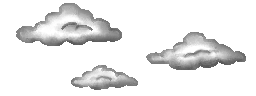
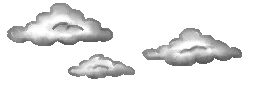
Floor rendering

Changed region(s): [[0.0312, 0.0312, 0.5, 0.5], [0.5312, 0.2812, 0.9688, 0.75], [0.25, 0.5625, 0.5625, 0.9375]]

diff --git a/src/scenes/game/stage.c b/src/scenes/game/stage.c
@@ -35,6 +35,7 @@ Stage create_stage(AssetManager* a) {
     Stage s;
 
     // Get bitmaps
+    s.bmpFloor = (Bitmap*)assets_get(a, "floor");
     s.bmpFence = (Bitmap*)assets_get(a, "fence");
     s.bmpBush = (Bitmap*)assets_get(a, "bush");
     s.bmpHouses = (Bitmap*)assets_get(a, "houses");
@@ -46,6 +47,7 @@ Stage create_stage(AssetManager* a) {
     s.housePos = 0.0f;
     s.fencePos = 0.0f;
     s.cloudPos = 0.0f;
+    s.floorPos = 0.0f;
 
     return s;
 }
@@ -58,6 +60,7 @@ void stage_update(Stage* s, float globalSpeed,  float tm) {
     const float HOUSE_SPEED = BUSH_SPEED / 2.0f;
     const float FENCE_SPEED = 1.0f;
     const float CLOUD_SPEED = 0.33f;
+    const float FLOOR_SPEED = FENCE_SPEED;
 
     //
     // Update positions
@@ -69,18 +72,20 @@ void stage_update(Stage* s, float globalSpeed,  float tm) {
     update_scrolling_element(&s->housePos, 
         HOUSE_SPEED*globalSpeed, s->bmpHouses->width, tm);
     update_scrolling_element(&s->cloudPos, 
-        CLOUD_SPEED*globalSpeed, s->bmpClouds->width, tm);    
+        CLOUD_SPEED*globalSpeed, s->bmpClouds->width, tm); 
+    update_scrolling_element(&s->floorPos, 
+        FLOOR_SPEED*globalSpeed, s->bmpFloor->width, tm);      
 }
 
 
 // Draw stage
 void stage_draw(Stage* s, Graphics* g) {
 
-    const int GROUND_HEIGHT = 40;
-    const int BUSH_Y = 80;
-    const int HOUSE_Y = 28;
+    const int GROUND_HEIGHT = 32;
+    const int BUSH_Y = 88;
+    const int HOUSE_Y = 36;
     const int FENCE_Y = 192 - GROUND_HEIGHT - s->bmpFence->height;
-    const int CLOUD_Y = 8;
+    const int CLOUD_Y = 16;
 
     int i, p;
 
@@ -96,9 +101,7 @@ void stage_draw(Stage* s, Graphics* g) {
     // Fence
     draw_scrolling_element(g, s->bmpFence, s->fencePos, FENCE_Y);
 
-    // The ground will come here
-    g_fill_rect(g, 0, 
-        192-GROUND_HEIGHT, 
-        256, 48, 
-        0b00001000);
+    // Floor
+    g_draw_3D_floor(g, s->bmpFloor, 0, 192-GROUND_HEIGHT, 
+        256, GROUND_HEIGHT, -s->floorPos, 0.25f, 6.0f);
 }

diff --git a/engine/src/graphics.c b/engine/src/graphics.c
@@ -664,3 +664,47 @@ void g_draw_line(Graphics* g, int x1, int y1,
         }
     }
 }
+
+
+// Draw "3D" floor
+void g_draw_3D_floor(Graphics* g, Bitmap* bmp,
+    int dx, int dy, int w, int h, int xdelta,
+    float mx, float my) {
+
+    //
+    // TODO: Use fixed point numbers
+    // for slightly better performance
+    //
+
+    int x, y;
+    int tx, ty;
+    int px, py;
+    uint8 col;
+
+    int yjumpDelta = (int)(mx*FIXED_PREC) / h;
+    int yjump = FIXED_PREC;
+
+    int xjumpDelta = (int)((my-1.0f)*FIXED_PREC) / h;
+    int xjump = (int)(my*FIXED_PREC);
+
+    ty = 0;
+    for (y = dy; y < dy + h; ++ y) {
+
+        py = round_fixed(ty, FIXED_PREC) % bmp->height;
+        tx = -w/2 * yjump;
+        for (x = dx; x < dx + w; ++ x) {
+            
+            px = neg_mod((round_fixed(tx, FIXED_PREC))-xdelta, bmp->width);
+            col = bmp->data[py * bmp->width + px];
+
+            g->pdata[y*g->csize.x + x] = col;
+
+            tx += yjump;
+        }
+        ty += xjump;
+
+        xjump -= xjumpDelta;
+        yjump -= yjumpDelta;
+        
+    }    
+}

diff --git a/engine/src/mathext.c b/engine/src/mathext.c
@@ -74,3 +74,29 @@ int max_int32_3(int a, int b, int c) {
     return (a >= b && a >= c) ? a 
         : ( (b >= a && b >=c) ? b : c);
 }
+
+
+// Negative modulo
+int neg_mod(int m, int n) {
+
+    if(m < 0) {
+
+        return n - (-m % n);
+    }
+    return m % n;
+}
+
+
+// Round fixed point number
+int round_fixed(int n, int p) {
+
+    int m = neg_mod(n, p);
+    if (m < p/2) {
+
+        return n / p;
+    }
+    else {
+
+        return n / p +1;
+    }
+}

diff --git a/engine/src/graphics.h b/engine/src/graphics.h
@@ -124,5 +124,10 @@ void g_draw_triangle(Graphics* g,
 void g_draw_line(Graphics* g, int x1, int y1, 
     int x2, int y2, uint8 col);
 
+// Draw "3D" floor
+void g_draw_3D_floor(Graphics* g, Bitmap* bmp,
+    int x, int y, int w, int h, int xdelta, 
+    float mx, float my);
+
 
 #endif // __GRAPHICS__

diff --git a/src/scenes/game/stage.h b/src/scenes/game/stage.h
@@ -13,7 +13,7 @@
 typedef struct {
 
     // Bitmaps
-    Bitmap* bmpGrass;
+    Bitmap* bmpFloor;
     Bitmap* bmpFence;
     Bitmap* bmpBush;
     Bitmap* bmpHouses;
@@ -25,6 +25,7 @@ typedef struct {
     float bushPos;
     float housePos;
     float cloudPos;
+    float floorPos;
 
 } Stage;
 

diff --git a/engine/src/mathext.h b/engine/src/mathext.h
@@ -20,4 +20,10 @@ float max_float_2(float a, float b);
 int min_int32_3(int a, int b, int c);
 int max_int32_3(int a, int b, int c);
 
+// Negative modulo
+int neg_mod(int m, int n);
+
+// Round fixed point number
+int round_fixed(int n, int p);
+
 #endif // __MATHEXT__
